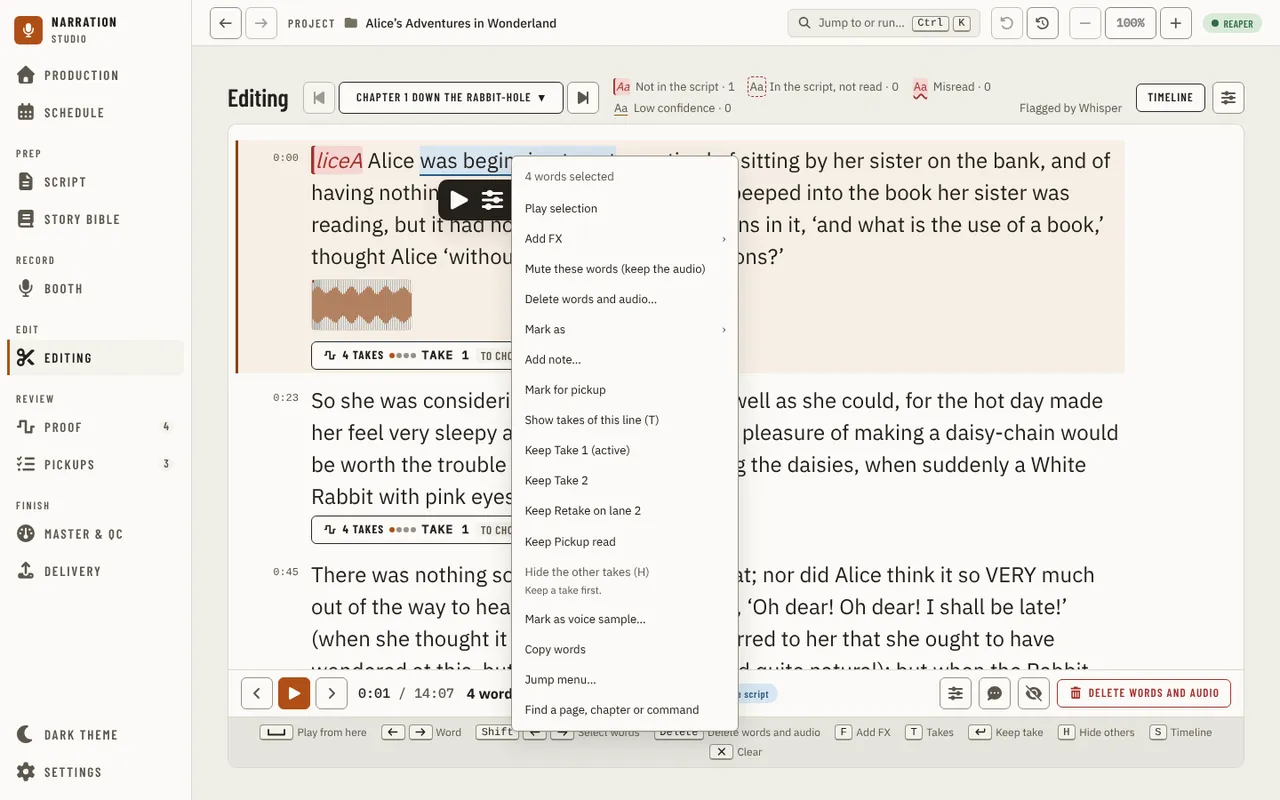
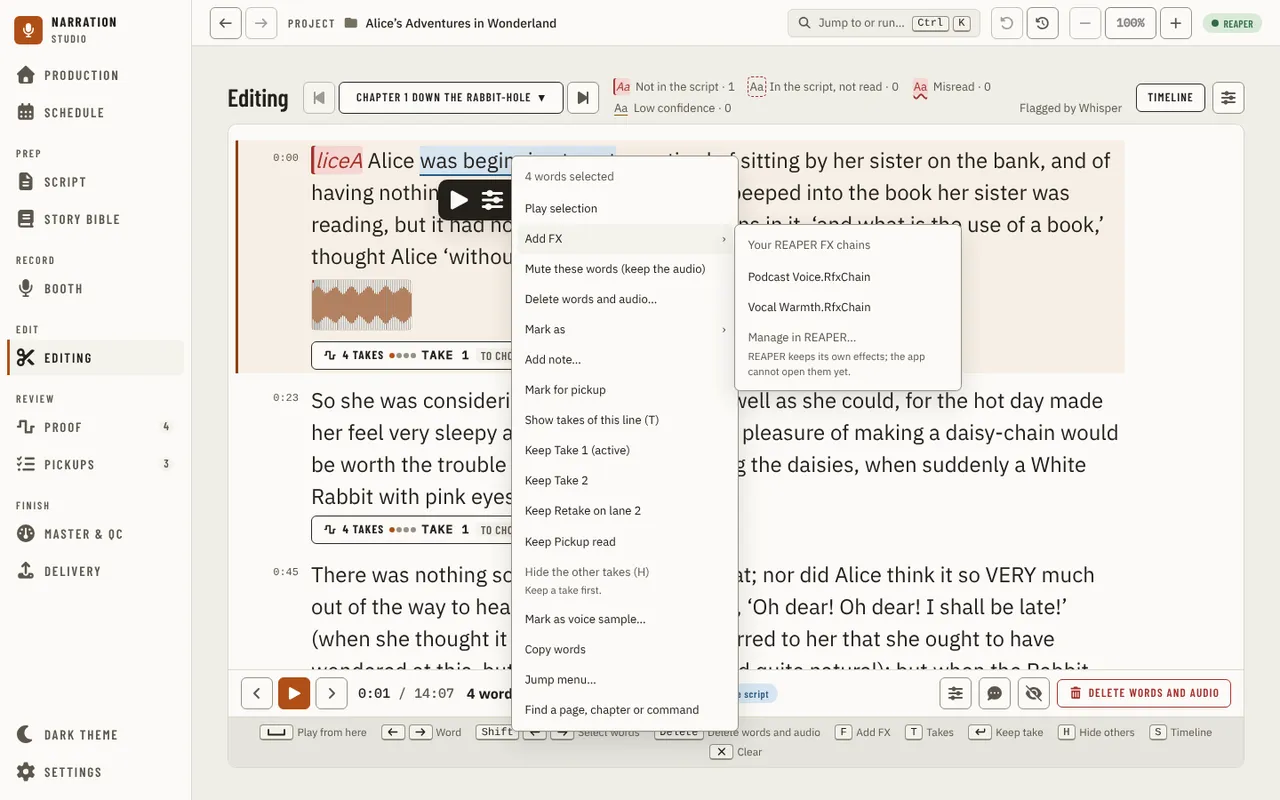
test(ui): show the Add FX submenu open in the guide and add the effect inspector state
Claude-Session: https://claude.ai/code/session_018Q2Tiy6XkgmYw9sv82H3cP

Changed region(s): [[0.5625, 0.2812, 0.75, 0.5]]

diff --git a/apps/ui/tests/visual/drivers/editing.ts b/apps/ui/tests/visual/drivers/editing.ts
@@ -64,10 +64,27 @@ export const editingDrivers: Record<string, Driver> = {
     await selectWords(page);
     await page.locator('[data-k="p-1:2"]').click({ button: 'right' });
     await page.getByRole('menuitem', { name: 'Add FX' }).click();
-    await page
-      .getByRole('menuitem', { name: /RfxChain$/ })
-      .first()
-      .waitFor();
+    const chain = page.getByRole('menuitem', { name: /RfxChain$/ }).first();
+    await chain.waitFor();
+    // The submenu fades in: wait until it is fully drawn before the page is captured.
+    await chain.evaluate(async (el) => {
+      const popup = el.closest('[role="menu"]');
+      await Promise.all(popup?.getAnimations().map((a) => a.finished) ?? []);
+    });
+  },
+  'drawer-effects-inspector': async (page) => {
+    // Two effects on different words, so the inspector has a neighbour either way; the first is picked.
+    await openEditing(page, EDITS);
+    await addEffect(page, 'p-1:1', 'p-1:4');
+    await addEffect(page, 'p-2:0', 'p-2:2');
+    await page.getByRole('button', { name: 'Clean up and effects' }).click();
+    await page.locator('#drawer').waitFor();
+    await page.getByRole('tab', { name: /^Effects/ }).click();
+    await page.getByRole('button', { name: 'Next effect' }).waitFor();
+    // The two "Added …" toasts cover the panel; the inspector is scrolled up under its header.
+    const dismiss = page.getByRole('button', { name: 'Dismiss message' });
+    while (await dismiss.count()) await dismiss.first().click();
+    await page.getByRole('region', { name: 'Effect', exact: true }).evaluate((el) => el.scrollIntoView({ block: 'start' }));
   },
   'fx-dialog': async (page) => {
     await openEditing(page, EDITS);
@@ -253,6 +270,20 @@ async function openEditing(page: Page, query: string): Promise<void> {
 }
 
 /** Selects the second to the fifth word of the first line: a click, then a Shift+click. */
+/** Selects the words from `from` to `to` and puts the first listed chain on them through the question. */
+async function addEffect(page: Page, from: string, to: string): Promise<void> {
+  await page.locator(`[data-k="${from}"]`).click();
+  await page.locator(`[data-k="${to}"]`).click({ modifiers: ['Shift'] });
+  await bar(page).getByRole('button', { name: 'Add FX' }).click();
+  await page
+    .getByRole('menuitem', { name: /RfxChain$/ })
+    .first()
+    .click();
+  const question = page.getByRole('dialog', { name: /^Add FX to / });
+  await question.getByRole('button', { name: /^(Split and add effect|Add anyway)$/ }).click();
+  await question.waitFor({ state: 'hidden' });
+}
+
 async function selectWords(page: Page): Promise<void> {
   await page.locator('[data-k="p-1:1"]').click();
   await page.locator('[data-k="p-1:4"]').click({ modifiers: ['Shift'] });

diff --git a/apps/ui/src/components/editing/range/fx/FxDialog.stories.tsx b/apps/ui/src/components/editing/range/fx/FxDialog.stories.tsx
@@ -27,7 +27,17 @@ const list = {
 };
 
 /** The question as the overlay draws it: the Dialog primitive with the dialog's own body and buttons. */
-function Question({ plan, over = null }: { plan: Acting; over?: string | null }) {
+function Question({
+  plan,
+  over = null,
+  compareReason = '',
+  onCompare = fn(),
+}: {
+  plan: Acting;
+  over?: string | null;
+  compareReason?: string;
+  onCompare?: () => void;
+}) {
   return (
     <Dialog dismissOnOutsidePress={false} title={fxTitle(2)} onClose={fn()} actions={null}>
       <FxDialog
@@ -40,14 +50,16 @@ function Question({ plan, over = null }: { plan: Acting; over?: string | null })
         locator={locator}
         snap={snap}
         overOf={() => (over ? { overlaps: [], cap: over, text: over } : null)}
-        compareReason={() => ''}
-        onCompare={fn()}
+        compareReason={() => compareReason}
+        onCompare={onCompare}
         onCancel={fn()}
         onConfirm={fn()}
       />
     </Dialog>
   );
 }
+
+const abPressed = fn();
 
 const meta = { title: 'Editing/FxDialog', parameters: { layout: 'fullscreen' } } satisfies Meta;
 export default meta;
@@ -63,6 +75,29 @@ export const Preview: Story = {
     await expect(within(dialog).getByText(/one undo step in REAPER/)).toBeTruthy();
     await userEvent.selectOptions(within(dialog).getByRole('combobox', { name: 'Effect' }), 'Vocal Chain/Warmth.RfxChain');
     await expect(within(dialog).getByText(/Piece 2 · Vocal Chain\/Warmth\.RfxChain/)).toBeTruthy();
+  },
+};
+
+// A/B hears the words without and with the chain once the question has its snapped ends, and asks the DAW when pressed.
+export const AbOn: Story = {
+  render: () => <Question plan={{ kind: 'daw', dawName: 'REAPER' }} onCompare={abPressed} />,
+  play: async () => {
+    const dialog = await screen.findByRole('dialog', { name: 'Add FX to 2 words?' });
+    const ab = within(dialog).getByRole('button', { name: /A\/B/ });
+    await waitFor(() => expect(ab).toBeEnabled());
+    await userEvent.click(ab);
+    await expect(abPressed).toHaveBeenCalled();
+  },
+};
+
+// A chain the DAW cannot compare yet: A/B is off and the reason sits beside it, read as its description.
+export const AbOff: Story = {
+  render: () => <Question plan={{ kind: 'daw', dawName: 'REAPER' }} compareReason="Add the effect first, then compare it on the Effects tab." />,
+  play: async () => {
+    const dialog = await screen.findByRole('dialog', { name: 'Add FX to 2 words?' });
+    const ab = within(dialog).getByRole('button', { name: /A\/B/ });
+    await expect(ab).toBeDisabled();
+    await expect(ab).toHaveAccessibleDescription('Add the effect first, then compare it on the Effects tab.');
   },
 };
 

diff --git a/apps/ui/src/components/editing/effects/Effects.stories.tsx b/apps/ui/src/components/editing/effects/Effects.stories.tsx
@@ -85,6 +85,15 @@ export const InspectorStepping: Story = {
     await expect(canvas.getByRole('button', { name: 'Show in REAPER' })).toBeTruthy();
   },
 };
+// On the last effect Next is off and says so; Previous works.
+export const InspectorLast: Story = {
+  render: () => inspector('REAPER', 420, { at: MANY.length - 1, of: MANY.length, to: fn() }),
+  play: async ({ canvasElement }) => {
+    const canvas = within(canvasElement);
+    await expect(canvas.getByRole('button', { name: 'Next effect' })).toHaveAttribute('aria-disabled', 'true');
+    await expect(canvas.getByRole('button', { name: 'Previous effect' })).not.toHaveAttribute('aria-disabled');
+  },
+};
 // The DAW lists the effect's settings: a slider for the continuous one, a number field for the stepped one; Bypass, Preview and Compare work.
 const withSettings = (bypassed: boolean, width = 420) => {
   const setup = withFxRange(DAW_SETUPS.reaper, 'native');

diff --git a/apps/ui/tests/visual/catalog/editing.ts b/apps/ui/tests/visual/catalog/editing.ts
@@ -34,6 +34,13 @@ export const editingStates: StateEntry[] = [
     state: 'word-menu-fx',
     description: 'Editing, right-click on four selected words with Add FX open - the word menu with its submenu of the DAW’s FX chains',
     ...POPUP_ANCHORED_AT_FIRST_WIDTH,
+    // The pointer rests on the Add FX row, which is what holds its submenu open: moved away, the submenu closes before the shot.
+    pointer: 'keep',
+  },
+  {
+    page: 'editing',
+    state: 'drawer-effects-inspector',
+    description: 'Editing, the Effects tab with two effects on words - the inspector with Previous and Next effect and Show in the DAW',
   },
   {
     page: 'editing',

diff --git a/docs/guides/using-the-app/editing.md b/docs/guides/using-the-app/editing.md
@@ -201,6 +201,8 @@ and one lane per take on one time axis. On a window 1360 px wide or more it is a
 
 ![Editing - the Effects tab with a DAW that lists its chains: each has a Favourite button, and the favourites are listed first](../../images/ui/editing-drawer-effects-chains.webp)
 
+![Editing - the Effects tab with two effects on words: the inspector with its Previous and Next arrows and Show in the DAW](../../images/ui/editing-drawer-effects-inspector.webp)
+
 ![Editing - the Timeline strip under the text: the waveform and takes of the line the cursor is on](../../images/ui/editing-drawer-timeline.webp)
 
 ## When the DAW is not connected
